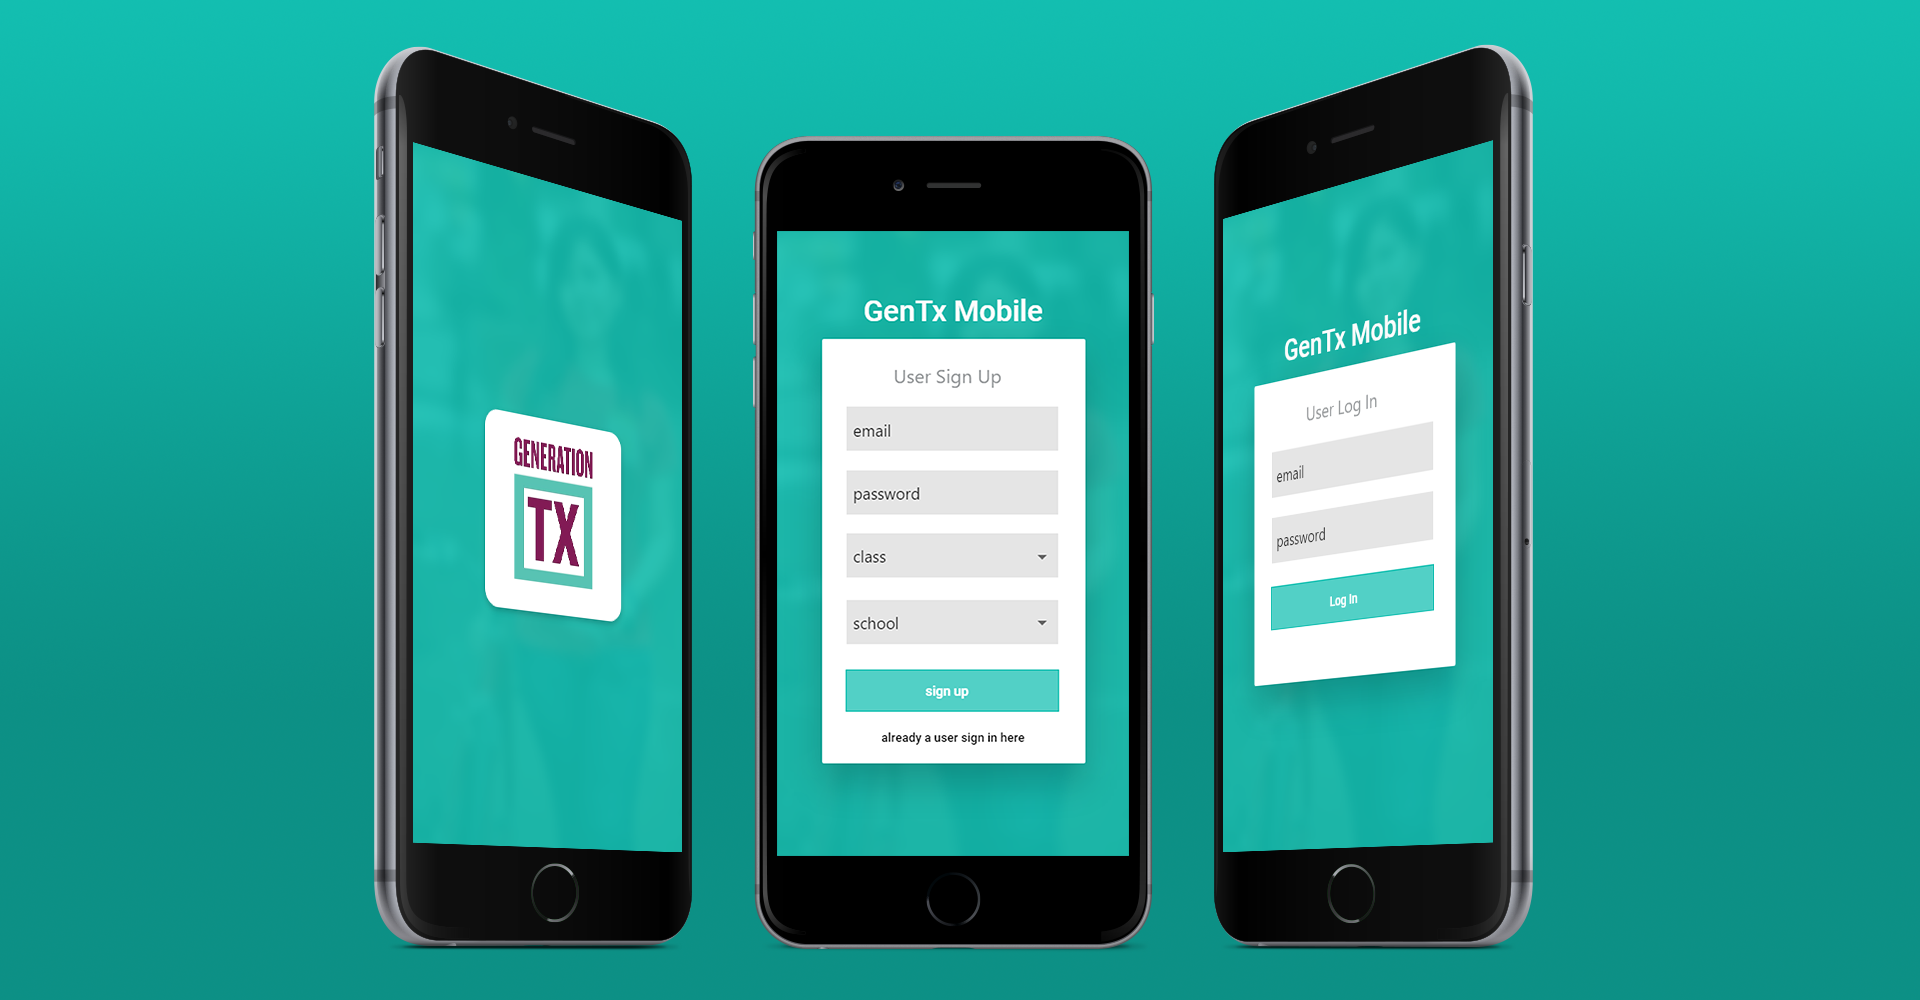
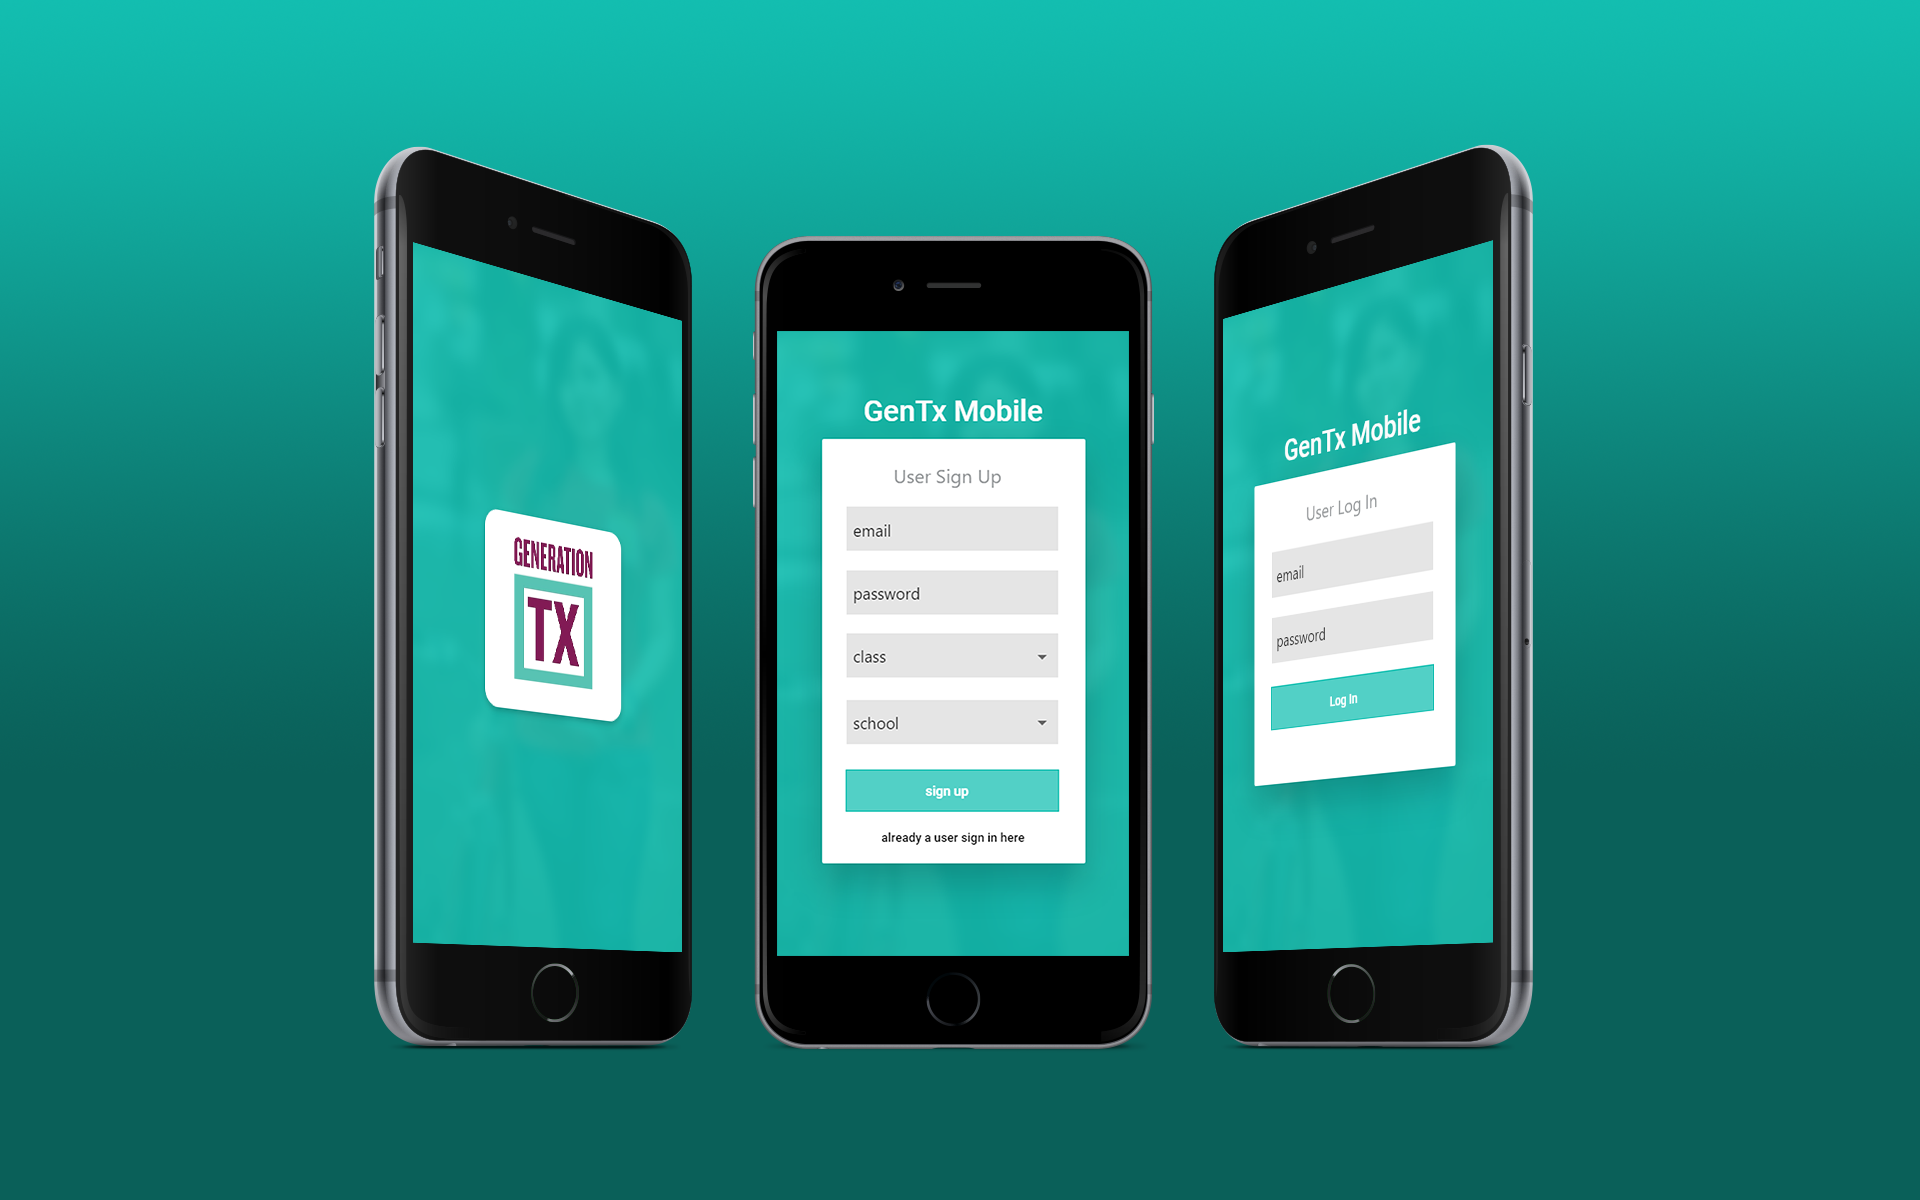
updates to next portfolio piece

diff --git a/style.css b/style.css
@@ -213,6 +213,12 @@ a:hover {
 }
 }
 /************ The Work Sections *******************/
+
+.app-color {
+	background-color: #0a6059;
+	color: #fff;
+	padding: 10px 0px 20px 0px;
+}
 .spacing{
 	margin-top: 40px;
 }

diff --git a/single-portfolio.php b/single-portfolio.php
@@ -48,12 +48,13 @@
 		  <div class="">
 			  <div class="">
 				  <div class="">
-		  		<img class="responsive-images" src="<?php echo get_template_directory_uri(); ?>/img/app-hero.png" width="1920" height="1000" alt=""/> </div>
+		  		<img class="responsive-images" src="<?php echo get_template_directory_uri(); ?>/img/app-hero.png" width="1920" height="1200" alt=""/> </div>
 			  </div>
 		  </div>
 	  </div>
 	  
-	 <div class="spacing"></div>
+	
+	 <div class="app-color">
 	  <div class="container-post">
 			<div class="row">
 				<div class="col-md-12">
@@ -63,7 +64,8 @@
 				</div>
 			</div>
 		</div>
-		
+		<div class="spacing"></div>
+	 </div>
 		
 		 <div class="spacing"></div>
 	  <div class="container-post">
